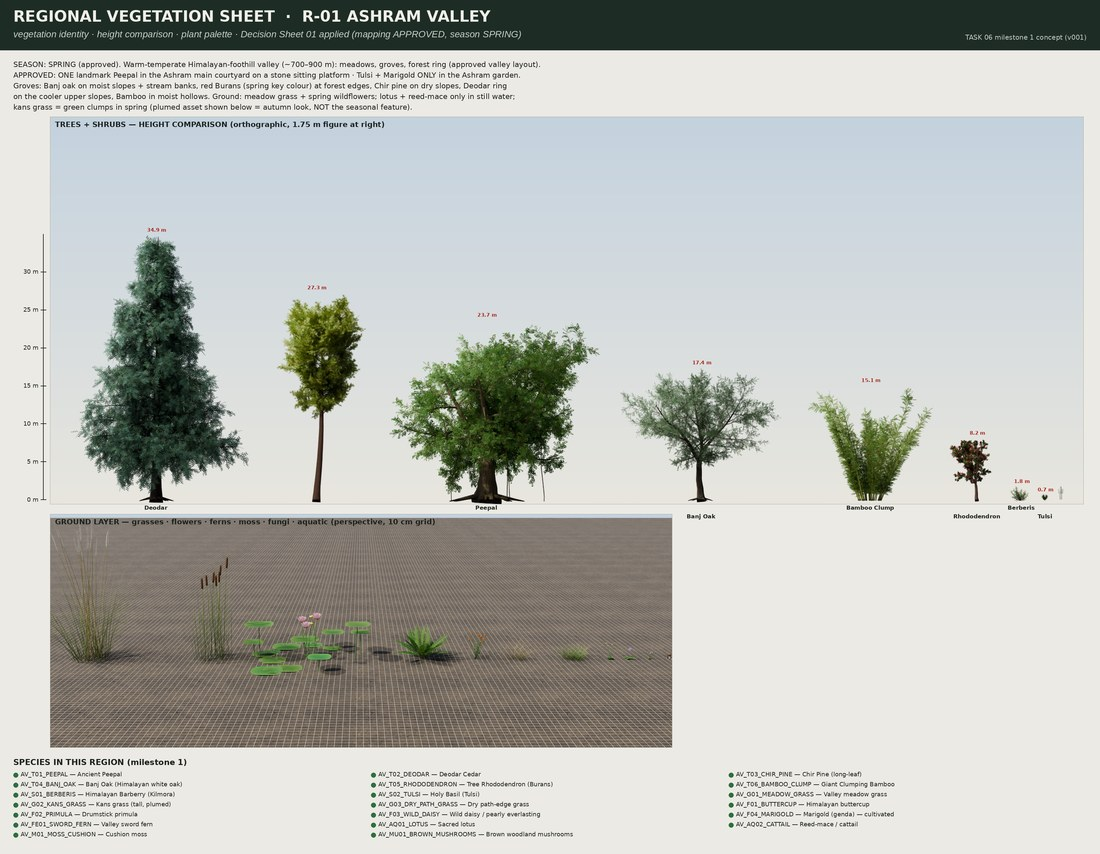
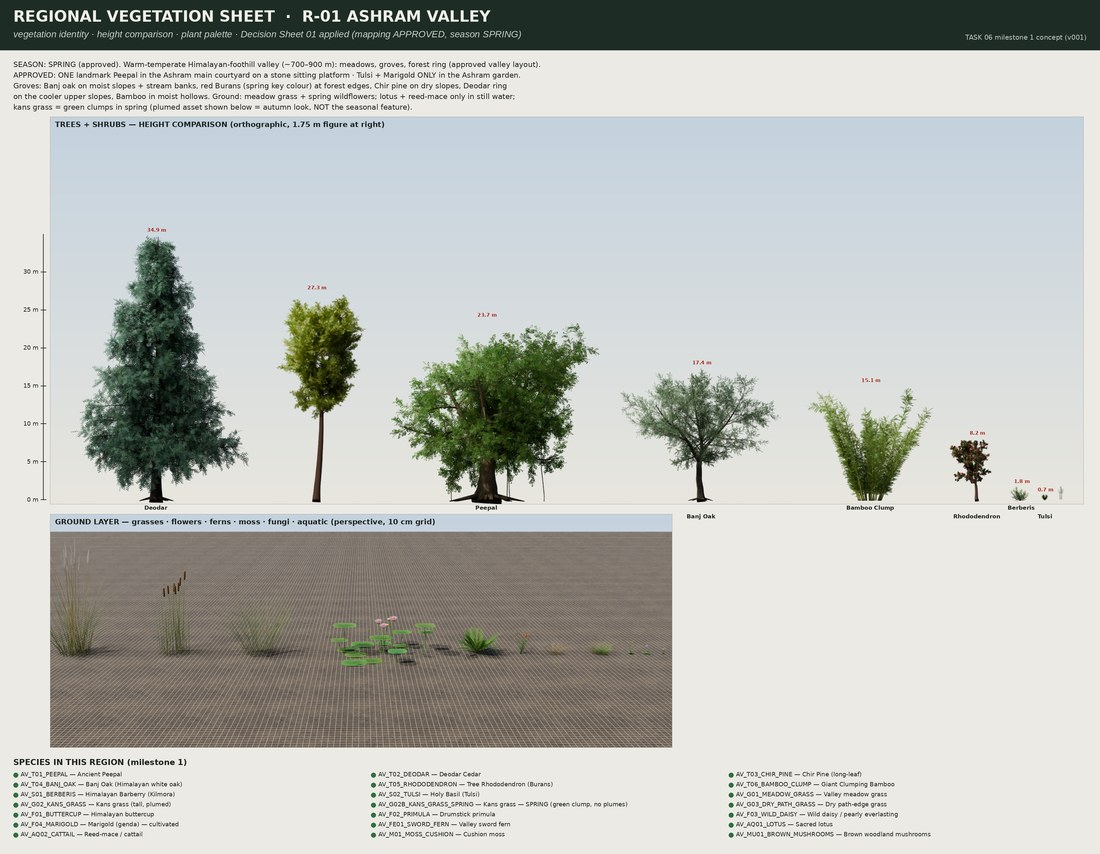
Leaf realism: soft low-contrast veins (relief in normal map), midrib/margin tone variation, blemish spots, insect bites; rounded Peepal leaf base; herb-leaf veins subtler; closeups-only render mode; spring kans sheet
Claude-Session: https://claude.ai/code/session_011k3RWwRxjGMSHLxijMVYzW

diff --git a/03_assets/vegetation/scripts/t6_leafgen.py b/03_assets/vegetation/scripts/t6_leafgen.py
@@ -17,7 +17,7 @@ from PIL import Image, ImageFilter
 from scipy.ndimage import gaussian_filter
 
 HERE = os.path.dirname(os.path.abspath(__file__))
-OUT = os.path.abspath(os.path.join(HERE, '..', 'textures', 'leaves'))
+OUT = os.environ.get('T6_LEAF_OUT') or os.path.abspath(os.path.join(HERE, '..', 'textures', 'leaves'))
 TILE = 1024          # final tile resolution (atlas 2048²)
 SS = 2               # supersampling
 N = TILE * SS
@@ -98,9 +98,9 @@ class Tile:
         sl = self.box(min(base[0], tip[0]) - pad, min(base[1], tip[1]) - pad, max(base[0], tip[0]) + pad, max(base[1], tip[1]) + pad)
         X, Y = self.X[sl] - base[0], self.Y[sl] - base[1]
         u = (X * ca + Y * sa) / length; v = (-X * sa + Y * ca) / (width / 2)          # v ∈ [-1, 1] at the widest point
-        shape = P['shape']; uu = np.clip(u, 0, 1)
-        if shape == 'heart':          # cordate base, long drip tip (Ficus religiosa)
-            body = np.sqrt(np.clip(1 - ((uu - .30) / .38) ** 2, 0, 1)) * (1 - .15 * uu)
+        shape = P['shape']; u_lo = -.07 if shape == 'heart' else 0.0; uu = np.clip(u, u_lo, 1)
+        if shape == 'heart':          # broad ROUNDED base around the petiole (slight notch), long drip tip (Ficus religiosa)
+            body = np.sqrt(np.clip(1 - ((uu - .31) / .385) ** 2, 0, 1)) * (1 - .15 * np.clip(uu, 0, 1))
             tail = np.clip((1 - uu) / .42, 0, 1) ** 1.3 * .22
             w = np.maximum(body, np.where(uu > .5, tail, 0))
         elif shape == 'lance':
@@ -120,7 +120,13 @@ class Tile:
         ser = P.get('serr', 0.0)
         if ser:
             w = w * (1 - ser * (.5 + .5 * np.sin(uu * P.get('teeth', 40) * np.pi)) ** 3)
-        inside = (u >= 0) & (u <= 1) & (np.abs(v) <= w)
+        inside = (u >= u_lo) & (u <= 1) & (np.abs(v) <= w)
+        if P.get('bites', True) and shape not in ('fan',) and self.rng.random() < .2:     # insect bites / torn margins (real leaves)
+            for _ in range(self.rng.integers(1, 3)):
+                bu = self.rng.uniform(.3, .85); sgn = self.rng.choice([-1, 1]); rb = self.rng.uniform(.05, .11) * length
+                wb = np.interp(bu, np.linspace(0, 1, 50), np.clip(np.sin(np.pi * np.linspace(0, 1, 50)) ** .7, 0, 1))
+                du_ = (u - bu) * length; dv_ = (v - sgn * wb * 1.05) * width / 2
+                inside &= ~(np.sqrt(du_ ** 2 + dv_ ** 2) < rb)
         if not inside.any():
             return
         q = np.clip(np.abs(v) / np.maximum(w, 1e-4), 0, 1)
@@ -132,13 +138,28 @@ class Tile:
         c = top * (1 - f) + edge * f
         c = c * (.86 + .26 * nz[..., None]) * (1 + jitter * .0)
         c = c * (1 - .25 * np.clip(1 - uu / .25, 0, 1)[..., None] * P.get('basedark', 1))
-        # veins: midrib + lateral veins slanting to the tip
-        mid = np.abs(v) * w * width / 2 < length * P.get('rib', .010) * (1.2 - uu)
+        # veins (realism pass 22 Nov): soft-edged, low colour contrast, fading towards the margin; relief carried by the normal map
+        ribw = length * P.get('rib', .010) * (1.2 - uu)
+        dmid = np.abs(v) * w * width / 2
+        mid_s = np.clip(1 - dmid / np.maximum(ribw, 1e-6), 0, 1) ** 1.2
         nv = P.get('veins', 9)
-        lat = (np.abs(((uu - np.abs(v) * P.get('slant', .22)) * nv) % 1 - .5) < .055) & (q < .92) & (uu > .05)
-        vm = (mid | (lat & (P.get('veinvis', 1) > 0)))
-        c = np.where(vm[..., None], c * .35 + vein * .65, c)
-        h = .55 * np.sqrt(np.clip(1 - q * q, 0, 1)) * P.get('dome', 1) + .15 - .22 * lat - .3 * mid + .05 * nz
+        dl = np.abs(((uu - np.abs(v) * P.get('slant', .22)) * nv) % 1 - .5)
+        lat_s = np.clip(1 - dl / .04, 0, 1) ** 1.5 * np.clip(1 - q ** 2, 0, 1) * (uu > .05) * (P.get('veinvis', 1) > 0)
+        a = (.42 * mid_s + .26 * lat_s)[..., None]
+        c = c * (1 - a) + vein * a
+        # natural variation inside the blade: lighter along the midrib, darker margin, a few small blemish spots
+        c = c * (1 + .07 * (1 - q[..., None]) ** 4) * (1 - .09 * q[..., None] ** 6)
+        rng = self.rng
+        if rng.random() < .3 and P.get('spots', True):
+            for _ in range(rng.integers(1, 4)):
+                su, sv = rng.uniform(.2, .85), rng.uniform(-.7, .7)
+                rs = rng.uniform(.012, .03) * length
+                du_ = (u - su) * length; dv_ = (v - sv) * width / 2
+                sm = np.clip(1 - np.sqrt(du_ ** 2 + dv_ ** 2) / rs, 0, 1) ** .8
+                spot = np.array(srgb2lin(np.array([.45, .36, .16])), np.float32)
+                c = c * (1 - .55 * sm[..., None]) + spot * .55 * sm[..., None]
+        mid, lat = mid_s, lat_s
+        h = .55 * np.sqrt(np.clip(1 - q * q, 0, 1)) * P.get('dome', 1) + .15 - .20 * lat - .28 * mid + .05 * nz
         if P.get('cup', 0):
             h = h + P['cup'] * q * q
         r = np.clip(P.get('rough', .42) + .18 * lat + .12 * (nz - .5), .15, .95)
@@ -368,7 +389,8 @@ def build(name):
     C = np.zeros((2 * TILE, 2 * TILE, 4), np.uint8); NOR = np.zeros((2 * TILE, 2 * TILE, 3), np.uint8)
     RO = np.zeros((2 * TILE, 2 * TILE), np.uint8)
     seed = rng.integers(1 << 30)
-    for z in (1.0, 1.12, 1.25, 1.4, 1.6, 1.85):
+    z0 = A.get('zoom', 1.0)                                         # keep the previous card size when the spray still fits
+    for z in sorted({z0} | {z for z in (1.0, 1.12, 1.25, 1.4, 1.6, 1.85) if z >= z0}):
         tiles = []
         for var in range(4):
             T = spray(Tile(np.random.default_rng(seed + var), z), A, var); tiles.append(T)
@@ -416,7 +438,7 @@ if __name__ == '__main__':
     mp = os.path.join(OUT, 'atlases.json')
     old = json.load(open(mp)) if os.path.exists(mp) else {}
     for k, v in old.items():
-        if k in ATLASES and k not in names:
+        if k in ATLASES:                                   # previous zoom = starting card size (also for rebuilt atlases)
             ATLASES[k]['zoom'] = v.get('zoom', 1)
     for n in names:
         build(n)

diff --git a/03_assets/vegetation/scripts/t6kit.py b/03_assets/vegetation/scripts/t6kit.py
@@ -1017,10 +1017,10 @@ def mat_herbleaf(name, base, vein='#9AC070', rough=.45, transl=.35):
     geo = b.n('ShaderNodeNewGeometry'); nz = b.noise(geo.outputs['Position'], 60, 3, .5)
     col = b.mix(b.math('MULTIPLY', sep.outputs['Y'], .5), hexc(base), tuple(min(1, c * 1.35) for c in hexc(base)[:3]) + (1,))
     col = b.mix(b.math('MULTIPLY', nz.outputs['Fac'], .25), col, (0.02, .03, .01, 1), 'MULTIPLY') if False else col
-    col = b.mix(b.math('MULTIPLY', veins, .7), col, hexc(vein))
+    col = b.mix(b.math('MULTIPLY', veins, .35), col, hexc(vein))      # realism: veins subtle in colour, visible in relief
     col = b.mix(b.math('MULTIPLY', b.math('SUBTRACT', nz.outputs['Fac'], .5), .3), col, (0, 0, 0, 1))
     b.l(col, bsdf.inputs['Base Color']); bsdf.inputs['Roughness'].default_value = rough
-    bp = b.n('ShaderNodeBump'); bp.inputs['Strength'].default_value = .35; bp.inputs['Distance'].default_value = .002
+    bp = b.n('ShaderNodeBump'); bp.inputs['Strength'].default_value = .5; bp.inputs['Distance'].default_value = .002
     b.l(b.math('SUBTRACT', 1.0, veins), bp.inputs['Height']); b.l(bp.outputs['Normal'], bsdf.inputs['Normal'])
     tl = b.n('ShaderNodeBsdfTranslucent'); b.l(col, tl.inputs['Color']); b.l(bp.outputs['Normal'], tl.inputs['Normal'])
     mx = b.n('ShaderNodeMixShader'); mx.inputs[0].default_value = transl; b.l(bsdf.outputs[0], mx.inputs[1]); b.l(tl.outputs[0], mx.inputs[2])

diff --git a/03_assets/vegetation/scripts/t6_render_sheets.py b/03_assets/vegetation/scripts/t6_render_sheets.py
@@ -221,7 +221,9 @@ for name, v in INV.items():
         break
     o = bpy.data.objects[name]
     sc.collection.objects.link(o)
-    if v['kind'] in ('tree', 'shrub'):
+    if v['kind'] in ('tree', 'shrub') and ONLY == 'closeups':      # only the leaf close-up (texture detail); ortho views kept
+        V, L, C = bounds(o); ov = dict(VIEWS.get(name, {})); ov.update(tree_closeups(o, name, V, L, C))
+    elif v['kind'] in ('tree', 'shrub'):
         ov, V, L, C = ortho_views(o, name, v['kind'])
         ov.update(tree_closeups(o, name, V, L, C))
     else:
@@ -229,7 +231,7 @@ for name, v in INV.items():
     VIEWS[name] = ov
     sc.collection.objects.unlink(o)
     json.dump(VIEWS, open(VJ, 'w'), indent=1)
-if ONLY in ('', 'lineup') and not SEL:
+if ONLY in ('', 'lineup') and not SEL:   # (closeups mode never re-renders the lineups)
     lineup('trees'); lineup('plants')
 json.dump(VIEWS, open(VJ, 'w'), indent=1)
 print('T6_RENDER_DONE', REG)
